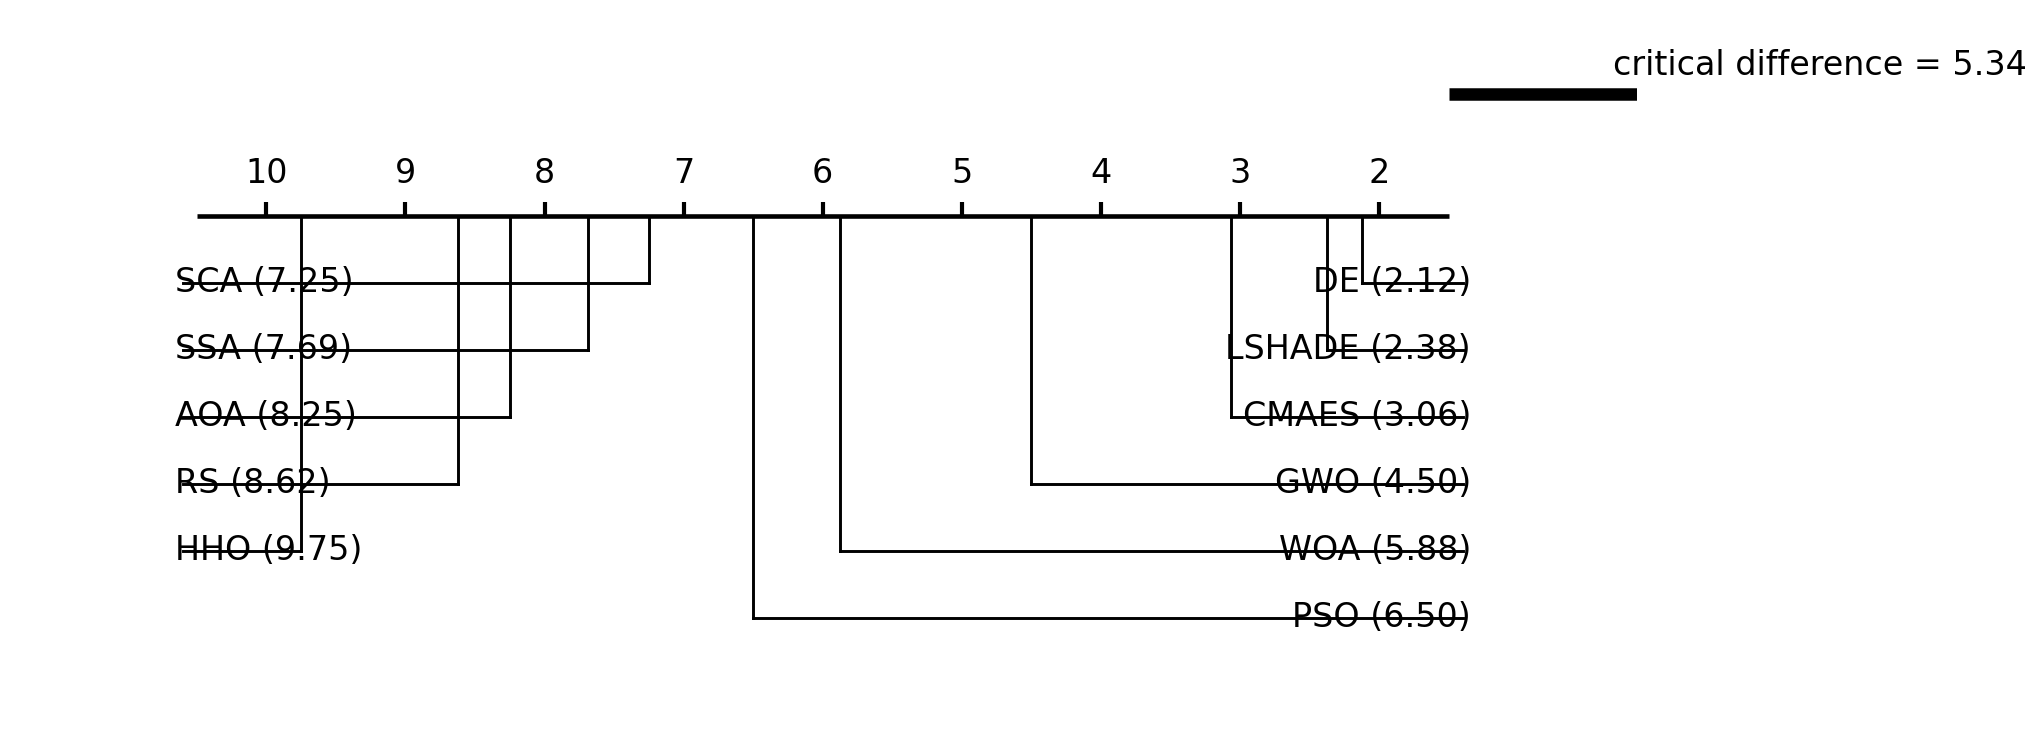
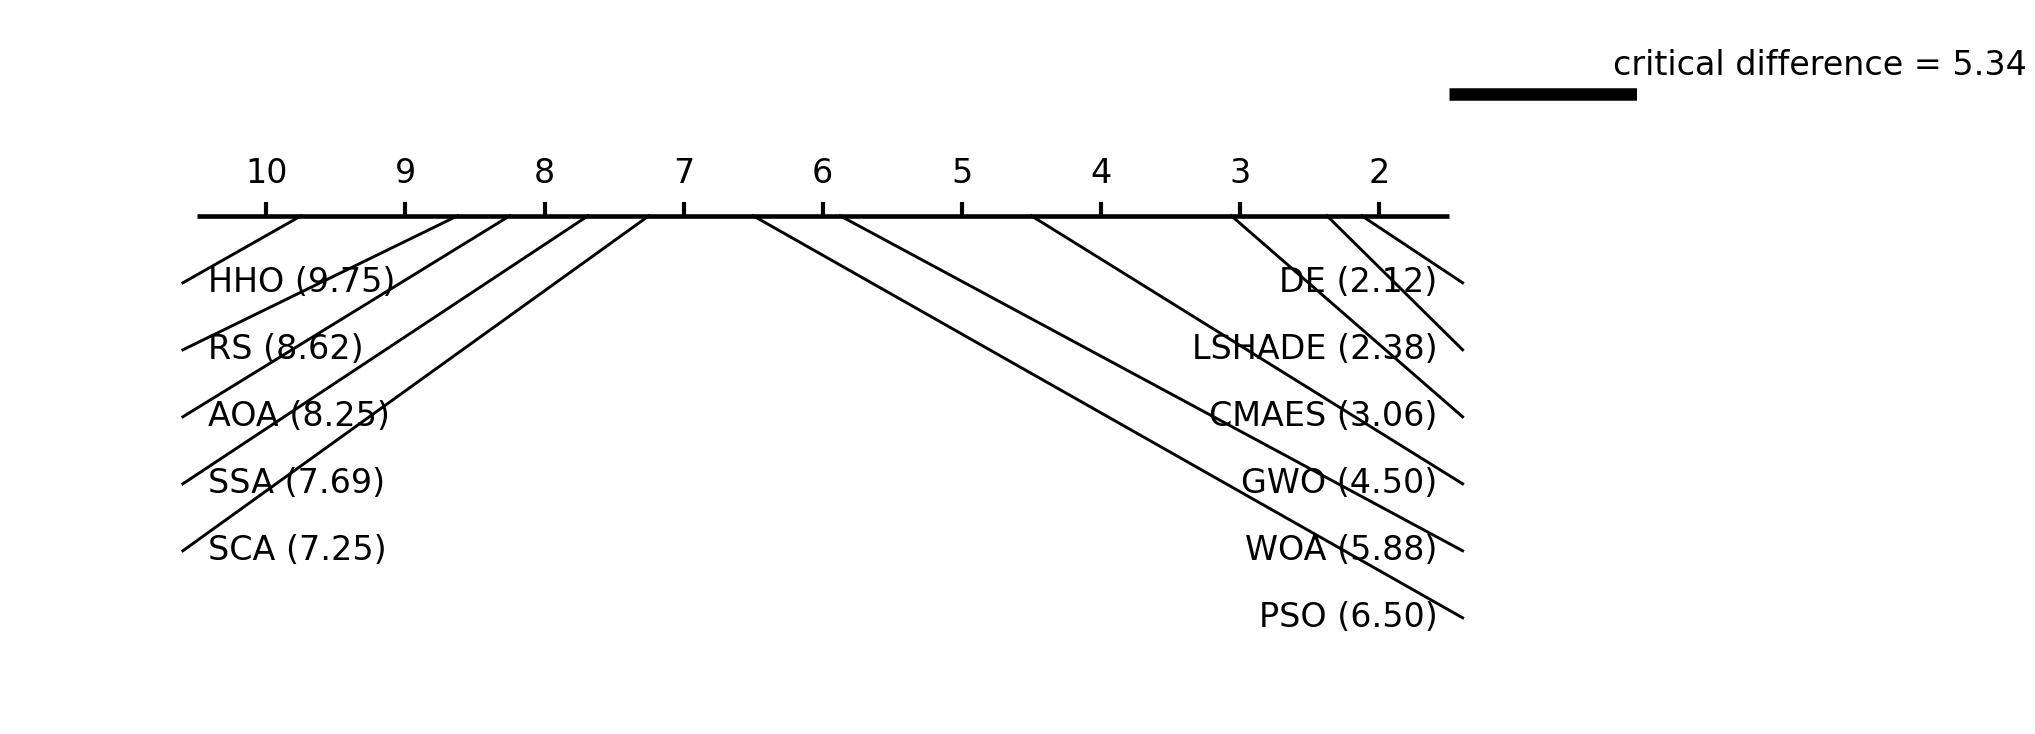
Fix stale problem/run counts and CD-diagram rendering bug
fig1_design's schematic said 9 design problems / 25 seeded runs;
the study actually admits 8 problems (disc-brake excluded) with 51
runs per pair. Fixed in both make_figures.py and figures_extra.py.

fig2's critical-difference diagram had leader lines crossing through
unrelated rows' text due to row ordering that let deeper rows' lines
sweep back across shallower rows on their way to the margin. Fixed
row ordering and connector routing in make_figures.py.

diff --git a/src/make_figures.py b/src/make_figures.py
@@ -59,12 +59,12 @@ def fig1_design():
         ax.add_patch(FancyArrowPatch((x1, y1), (x2, y2), arrowstyle="->",
                                      mutation_scale=8, lw=0.8, color="k"))
 
-    box(0.1, 3.55, 2.2, 1.05, "9 design problems\nverified against\npublished optima")
+    box(0.1, 3.55, 2.2, 1.05, "8 design problems\nverified against\npublished optima")
     box(0.1, 2.00, 2.2, 1.05, "11 algorithms\n6 metaphor-based\n5 baselines")
     box(0.1, 0.45, 2.2, 1.05, "3 constraint\nschemes: Deb,\nstatic, $\\epsilon$")
     box(3.05, 2.70, 2.1, 1.05, "matched-budget\ntuning on 3\ntraining problems")
     box(3.05, 1.15, 2.1, 1.05, "author-default\nhyperparameters")
-    box(5.95, 1.60, 1.9, 1.85, "25 seeded runs\n15,000 evaluations\nshared evaluator\nseeds paired\nacross algorithms")
+    box(5.95, 1.60, 1.9, 1.85, "51 seeded runs\n15,000 evaluations\nshared evaluator\nseeds paired\nacross algorithms")
     box(8.30, 1.60, 1.6, 1.85, "Friedman\n+ Nemenyi\n\nWilcoxon\n+ Holm\n\n$\\hat{A}_{12}$")
     for y in (4.07, 2.52, 0.97):
         arrow(2.32, y, 3.00, 3.05 if y > 3.5 else (2.20 if y < 1.5 else 2.60))
@@ -100,15 +100,37 @@ def fig2_cd(ranks, cd):
     ax.text(lo - cd / 2, top + 0.68, f"critical difference = {cd:.2f}",
             ha="center", va="bottom", fontsize=8)
 
-    for i, (nm, v) in enumerate(zip(names, vals)):
-        left = i < half
-        y = top - row_h * ((i if left else i - half) + 1)
-        x_end = (lo - 0.10) if left else (hi + 0.10)
-        ax.plot([v, v], [top, y], color="k", lw=0.7)
-        ax.plot([v, x_end], [y, y], color="k", lw=0.7)
-        ax.text(x_end - 0.06 if left else x_end + 0.06, y,
-                f"{nm} ({v:.2f})", ha="right" if left else "left",
-                va="center", fontsize=8)
+    # Row order must keep each connector's leader line clear of every other
+    # row's text. The label margin for the "left" (best-rank) group sits
+    # below the group's minimum value, so the shallowest row must hold the
+    # smallest value (ascending). The margin for the "right" (worst-rank)
+    # group sits above the group's maximum value, so it must be reversed
+    # (descending) or every deeper row's leader line crosses the shallower
+    # rows' text on its way out to the margin.
+    left_group = sorted(range(half), key=lambda i: vals[i])
+    right_group = sorted(range(half, len(names)), key=lambda i: -vals[i])
+
+    # Screen-space (points) offset from the leader line's endpoint, so the
+    # gap is unaffected by the reversed, non-uniform x/y data scaling.
+    for slot, i in enumerate(left_group):
+        nm, v = names[i], vals[i]
+        y = top - row_h * (slot + 1)
+        x_end = lo - 0.10
+        # single diagonal leader: touches the text zone only at its own row,
+        # so it cannot cross through another row's label text.
+        ax.plot([v, x_end], [top, y], color="k", lw=0.7)
+        ax.annotate(f"{nm} ({v:.2f})", xy=(x_end, y), xycoords="data",
+                    xytext=(-6, 0), textcoords="offset points",
+                    ha="right", va="center", fontsize=8)
+
+    for slot, i in enumerate(right_group):
+        nm, v = names[i], vals[i]
+        y = top - row_h * (slot + 1)
+        x_end = hi + 0.10
+        ax.plot([v, x_end], [top, y], color="k", lw=0.7)
+        ax.annotate(f"{nm} ({v:.2f})", xy=(x_end, y), xycoords="data",
+                    xytext=(6, 0), textcoords="offset points",
+                    ha="left", va="center", fontsize=8)
     save(fig, "fig2_critical_difference")
 
 

diff --git a/src/figures_extra.py b/src/figures_extra.py
@@ -43,12 +43,12 @@ def box(x, y, w, h, t, fs=7.5):
 def arrow(x1, y1, x2, y2):
     ax.add_patch(FancyArrowPatch((x1, y1), (x2, y2), arrowstyle="->",
                  mutation_scale=9, lw=0.8, color="k"))
-box(0.1, 3.5, 2.3, 1.1, "9 design problems\nverified against\npublished optima")
+box(0.1, 3.5, 2.3, 1.1, "8 design problems\nverified against\npublished optima")
 box(0.1, 1.9, 2.3, 1.1, "11 algorithms\n6 metaphor-based\n5 baselines")
 box(0.1, 0.3, 2.3, 1.1, "3 constraint\nschemes: Deb,\nstatic, $\\epsilon$")
 box(3.1, 2.6, 2.2, 1.1, "matched-budget\ntuning\n(3 training problems)")
 box(3.1, 1.0, 2.2, 1.1, "author-default\nhyperparameters")
-box(6.0, 1.8, 1.9, 1.9, "25 seeded runs\n15,000 FEs\nshared evaluator\npaired seeds")
+box(6.0, 1.8, 1.9, 1.9, "51 seeded runs\n15,000 FEs\nshared evaluator\npaired seeds")
 box(8.4, 1.8, 1.5, 1.9, "Friedman\n+ Nemenyi\nWilcoxon\n+ Holm\n$\\hat{A}_{12}$")
 for y in (4.05, 2.45, 0.85): arrow(2.4, y, 3.05, 2.2 if y != 1.55 else y)
 arrow(5.3, 3.15, 5.95, 2.9); arrow(5.3, 1.55, 5.95, 2.3); arrow(7.9, 2.75, 8.35, 2.75)
